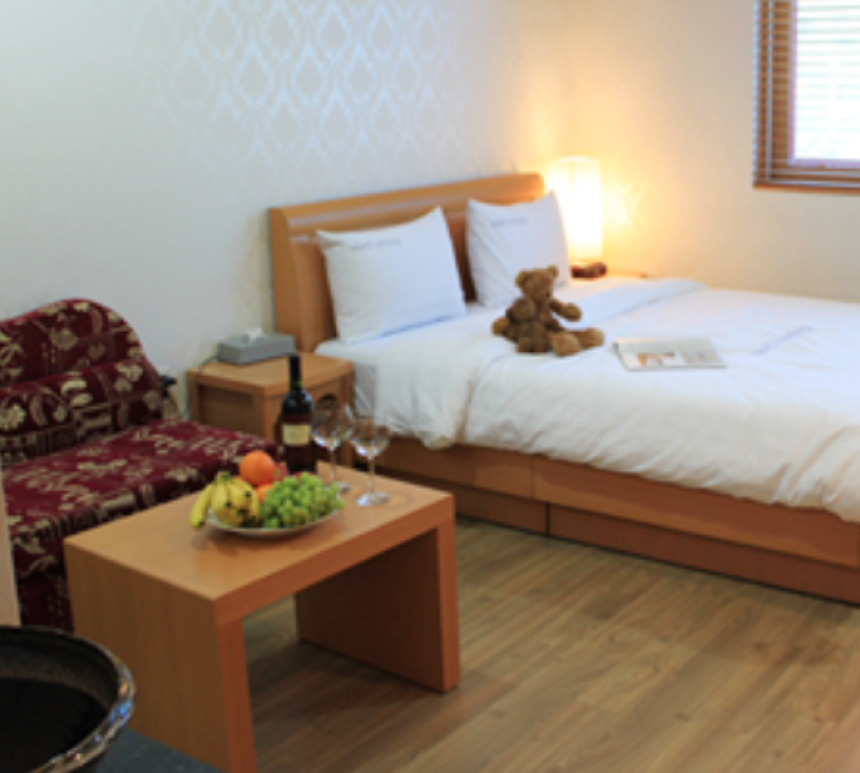
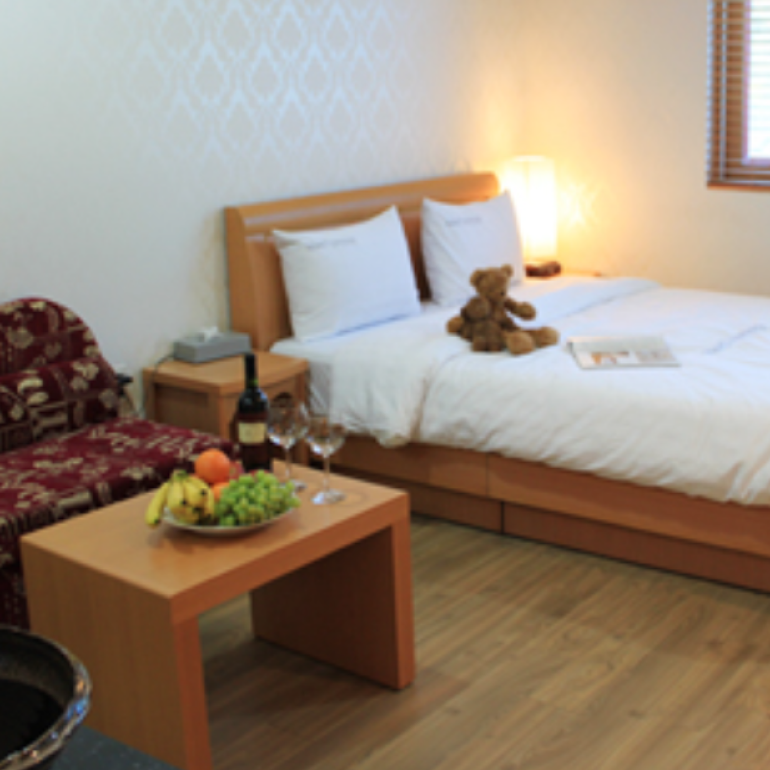
main/index.html Room view finish

diff --git a/introduce/index.html b/introduce/index.html
@@ -18,42 +18,42 @@
 
 <body>
     <section>
-        <p class="title_text">CEO <span>인사말</span></p>
-        <hr class="grayhr">
-        <div class="content">
-            <div class="content_left"><img src="../images/profile.png" alt="프로필"></div>
-
-            <div class="content_right">
-                <p class="name">이낙천</p>
-                <p class="hotel_name">나로비치호텔 대표</p>
-                <p class="hello">안녕하십니까?
-                    <br>
-                    <br>
-                    저희 나로 비치 호텔은 2010년 7월에 대한민국 우주산업의 거점,
-                    고흥 나로도에 오픈하였습니다.
-                    호텔에서 자동차로 10분 거리에는 나로 우주센터와 청소년 우주체험 센터가 있고,
-                    최단 뱃길로 거문도와 백도를 갈 수 있는 나로도항은 걸어서 1분 거리입니다.
-                    또한 아름다운 고흥반도의 해안 길을 따라 소록도와 천문과학관을 둘러볼 수 있는
-                    최적의 위치에 있습니다
-                    <br>
-                    <br>
-                    맑은 햇살과 따뜻한 바닷바람이 시작되는 나로도에
-                    연 면적 2,017,44㎡규모의 나로 비치 호텔은
-                    2012년 여수엑스포지정 우수 숙박업소 및 한국관광공사선정 굿 스테이로 지정,
-                    2013년 순천만 국게정원박람회 지정업소로 지정되었으며
-                    한실, 더블룸, 트윈룸 등 객실마다 특색있고 품위있는 다양한 인테리어로
-                    최상의 서비스를 제공하고 있습니다.
-                    나로 비치 호텔에서 행복한 여가를 즐기시길 바라오며,
-                    고객님의 아름답고 편안한 여행을 위해
-                    저희 나로비치 호텔은 최선의 노력을 다하겠습니다.
-                </p>
-                <div class="ceo_icons">
-                    <p><img src="../images/icon_phone.png" alt="phone">010-1234-5678</p>
-                    <p><img src="../images/icon_email.png" alt="email">010-1234-5678</p>
-                    <p><img src="../images/icon_map.png" alt="map">전남 고흥군 도양면</p>
+        <div class="section_wrap">
+            <p class="title_text">CEO <span>인사말</span></p>
+            <hr class="grayhr">
+            <div class="content">
+                <div class="content_left"><img src="../images/profile.png" alt="프로필"></div>
+                <div class="content_right">
+                    <p class="name">이낙천</p>
+                    <p class="hotel_name">나로비치호텔 대표</p>
+                    <p class="hello">안녕하십니까?
+                        <br>
+                        <br>
+                        저희 나로 비치 호텔은 2010년 7월에 대한민국 우주산업의 거점,
+                        고흥 나로도에 오픈하였습니다.
+                        호텔에서 자동차로 10분 거리에는 나로 우주센터와 청소년 우주체험 센터가 있고,
+                        최단 뱃길로 거문도와 백도를 갈 수 있는 나로도항은 걸어서 1분 거리입니다.
+                        또한 아름다운 고흥반도의 해안 길을 따라 소록도와 천문과학관을 둘러볼 수 있는
+                        최적의 위치에 있습니다
+                        <br>
+                        <br>
+                        맑은 햇살과 따뜻한 바닷바람이 시작되는 나로도에
+                        연 면적 2,017,44㎡규모의 나로 비치 호텔은
+                        2012년 여수엑스포지정 우수 숙박업소 및 한국관광공사선정 굿 스테이로 지정,
+                        2013년 순천만 국게정원박람회 지정업소로 지정되었으며
+                        한실, 더블룸, 트윈룸 등 객실마다 특색있고 품위있는 다양한 인테리어로
+                        최상의 서비스를 제공하고 있습니다.
+                        나로 비치 호텔에서 행복한 여가를 즐기시길 바라오며,
+                        고객님의 아름답고 편안한 여행을 위해
+                        저희 나로비치 호텔은 최선의 노력을 다하겠습니다.
+                    </p>
+                    <div class="ceo_icons">
+                        <p><img src="../images/icon_phone.png" alt="phone">010-1234-5678</p>
+                        <p><img src="../images/icon_email.png" alt="email">010-1234-5678</p>
+                        <p><img src="../images/icon_map.png" alt="map">전남 고흥군 도양면</p>
+                    </div>
                 </div>
             </div>
-
         </div>
     </section>
 </body>

diff --git a/css/style.css b/css/style.css
@@ -1,12 +1,12 @@
 body{
     font: normal 16px/1.5 "Noto Sans KR","Sanchez","Noto Sans","Nanum Gothic","Roboto Slab", sans-serif;
     color: black;
-    background: white;
+    
 }
 .wrap{
         width: 1366px;
         margin: 0 auto;
-        background-color: rgb(54, 54, 54)
+        /*background-color: rgb(54, 54, 54)*/
 }
 header{
     background: url("../images/img_bg_header.png") center/cover;
@@ -171,9 +171,64 @@ font-size: 2.25rem;
     margin-bottom: 20px;
 
 }
+/******** main-room view******/
+.section_room p{
+    font-size: 30px;
+    width: 738px;
+}
+.room_menu ul{
+    display: flex;
+}
+.room_menu ul li{
+    padding: 20px;
+    font-size: 36px;
+}
+.room_bottom{
+    display: flex;
+    justify-content: space-around;
+    position: relative;
+}
+.room_bottom_left{
+    width: 770px;
+    height: 770px;
+    background-color: #2A286E;
+}
+.room_bottom img{
+    top: 10%;
+    width: 770px;
+    height: 770px;
+}
+.room_bottom_right{
+    width: 100%;
+    text-align: center;
+    align-self: center;
+}
+.room_bottom_right h3{
+    font-size: 24px;
+}
+.room_bottom_right p{
+    font: normal "Noto Sans";
+    font-size: 20px;
+}
+/******** main-travel ******/
+.travel{
+    display: flex;
+}
+.travel_left{
+    background: url("/images/img_main_travel.png");
+    background-repeat: no-repeat;
+    width: 100vw;
+    height: 900px;
+}
+.travel_right{
+    width: 100%;
+    background-color: gold;
+}
+
+/**************************END main section*********************************/
 
 /*===============introduce#CEO===================*/
-section {
+.section_wrap {
     width: 1366px;
     margin: 0 auto;
 }
@@ -234,37 +289,7 @@ p.title_text span{
 .ceo_icons p:nth-child(2) img{
     margin-right: 10px;
 }
-/******** main-room******/
-.section_room p{
-    font-size: 30px;
-    width: 738px;
-}
-.room_menu ul{
-    display: flex;
-}
-.room_menu ul li{
-    padding: 20px;
-    font-size: 36px;
-}
-.room_bottom{
-    display: flex;
-    justify-content: space-around;
-}
-.room_bottom img{
-    width: 860px;
-    height: 773px;
-}
-.room_bottom_right{
-    text-align: center;
-    align-self: center;
-}
-.room_bottom_right h3{
-    font-size: 24px;
-}
-.room_bottom_right p{
-    font: normal "Noto Sans";
-    font-size: 20px;
-}
+
 /*********************footer********************/
 footer{
     height: 455px;

diff --git a/index.html b/index.html
@@ -118,7 +118,7 @@
                     </div>
                     <div>
                         <div class="room_bottom">
-                            <div>
+                            <div class="room_bottom_left">
                                 <img src="/images/img_main_room.png" alt="room img">
                             </div>
                             <div class="room_bottom_right">
@@ -146,19 +146,24 @@
             <p class="p_text">TRAVEL</p>
 
             <div class="section_travel">
-                <div>
-                    <div>
-                        <h3>TRAVEL</h3>
-                        <p>Lorem ipsum dolor sit amet, consectetur adipiscing elit. Dictum vulputate risus integer sed
-                            molestie morbi molestie.</p>
-                    </div>
-                </div>
-                <div>
-                    <div>
+                <div class="travel">
+                    <div class="travel_left">
+                        <div><p>TRAVEL</p></div>
+                        <div><p>Lorem ipsum dolor sit amet, consectetur adipiscing elit. Dictum vulputate risus integer sed
+                            molestie morbi molestie.</p></div>
+                        <div></div>
 
                     </div>
+                    <div class="travel_right">
+                        <div><span>지친 몸과 마음을 
+                            달랠 수 있는 전남 고흥.
+                            소중한 사람과 힐링, 쉼, 
+                            감성충만한 시간을 느껴보세요</span>
+                        </div>
+                        <div><img src="/images/img_travel_logo.png" alt="travel logo">
+                        </div>
+                    </div>
                 </div>
-
             </div>
         </article>
 
